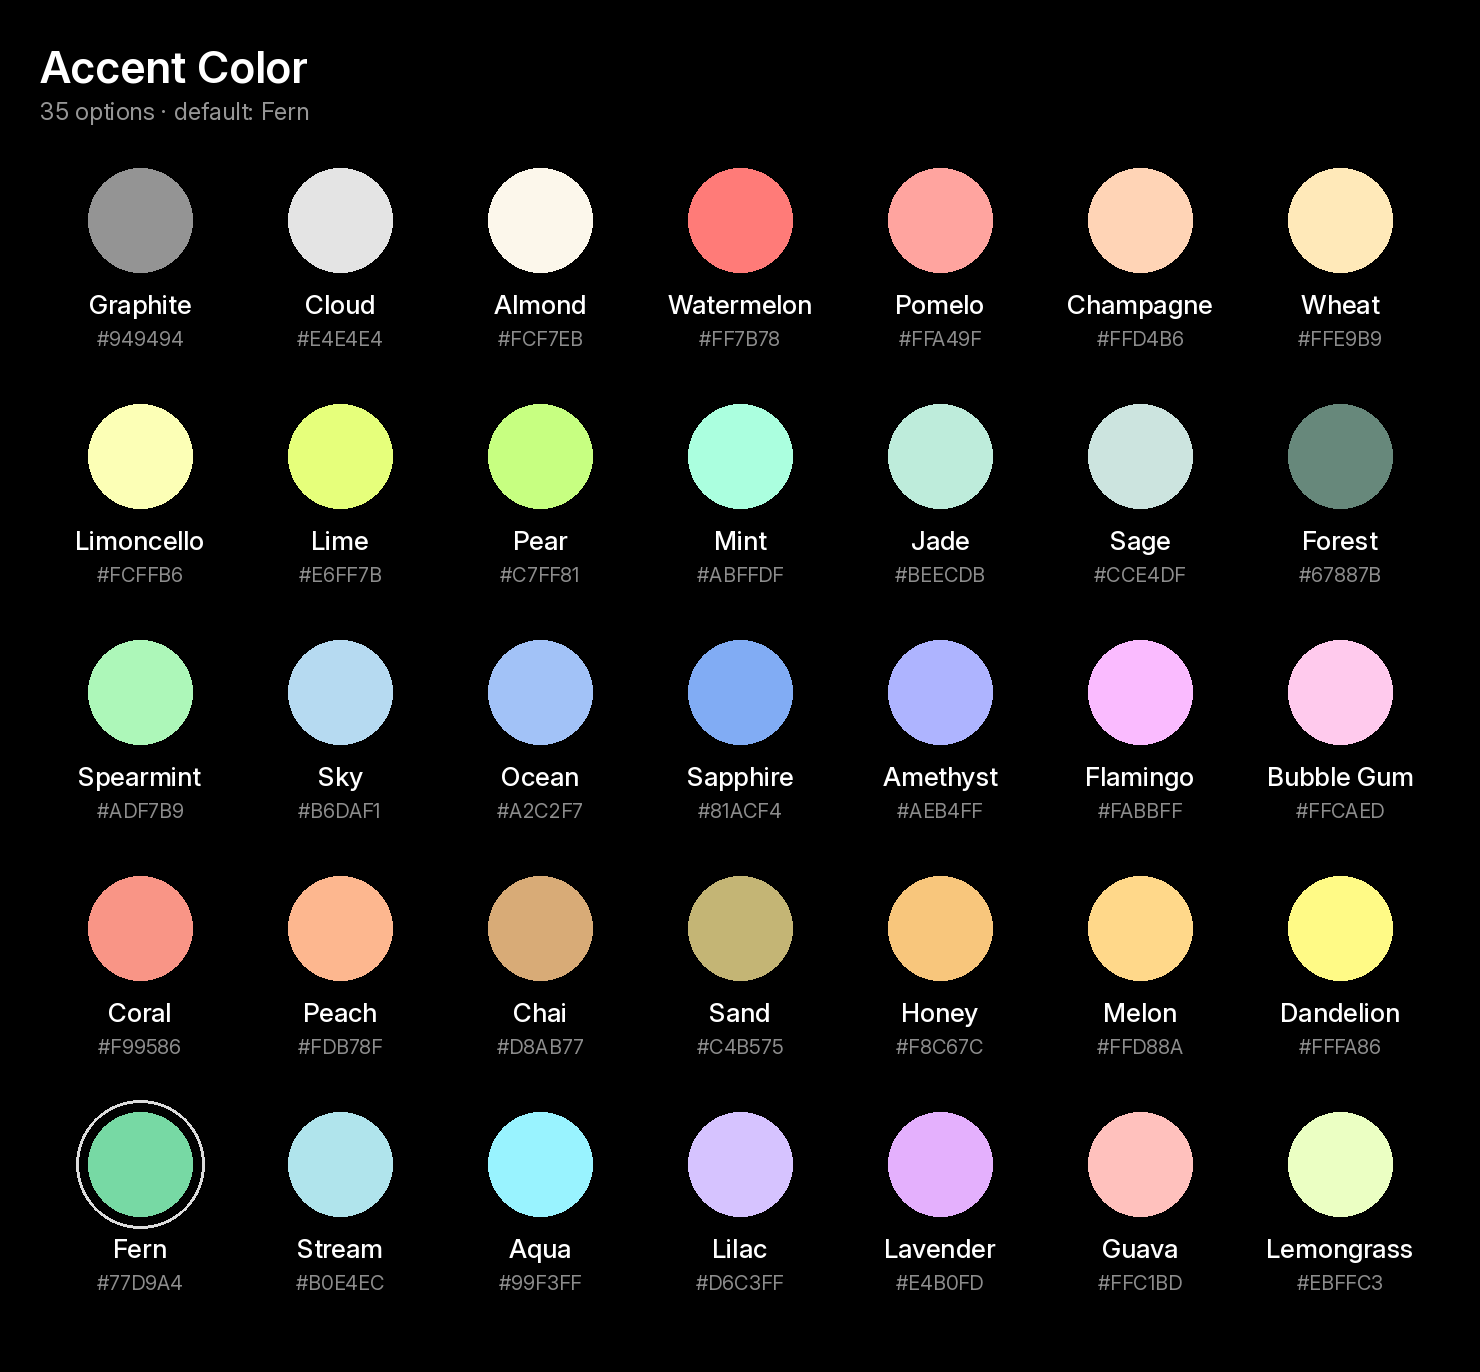
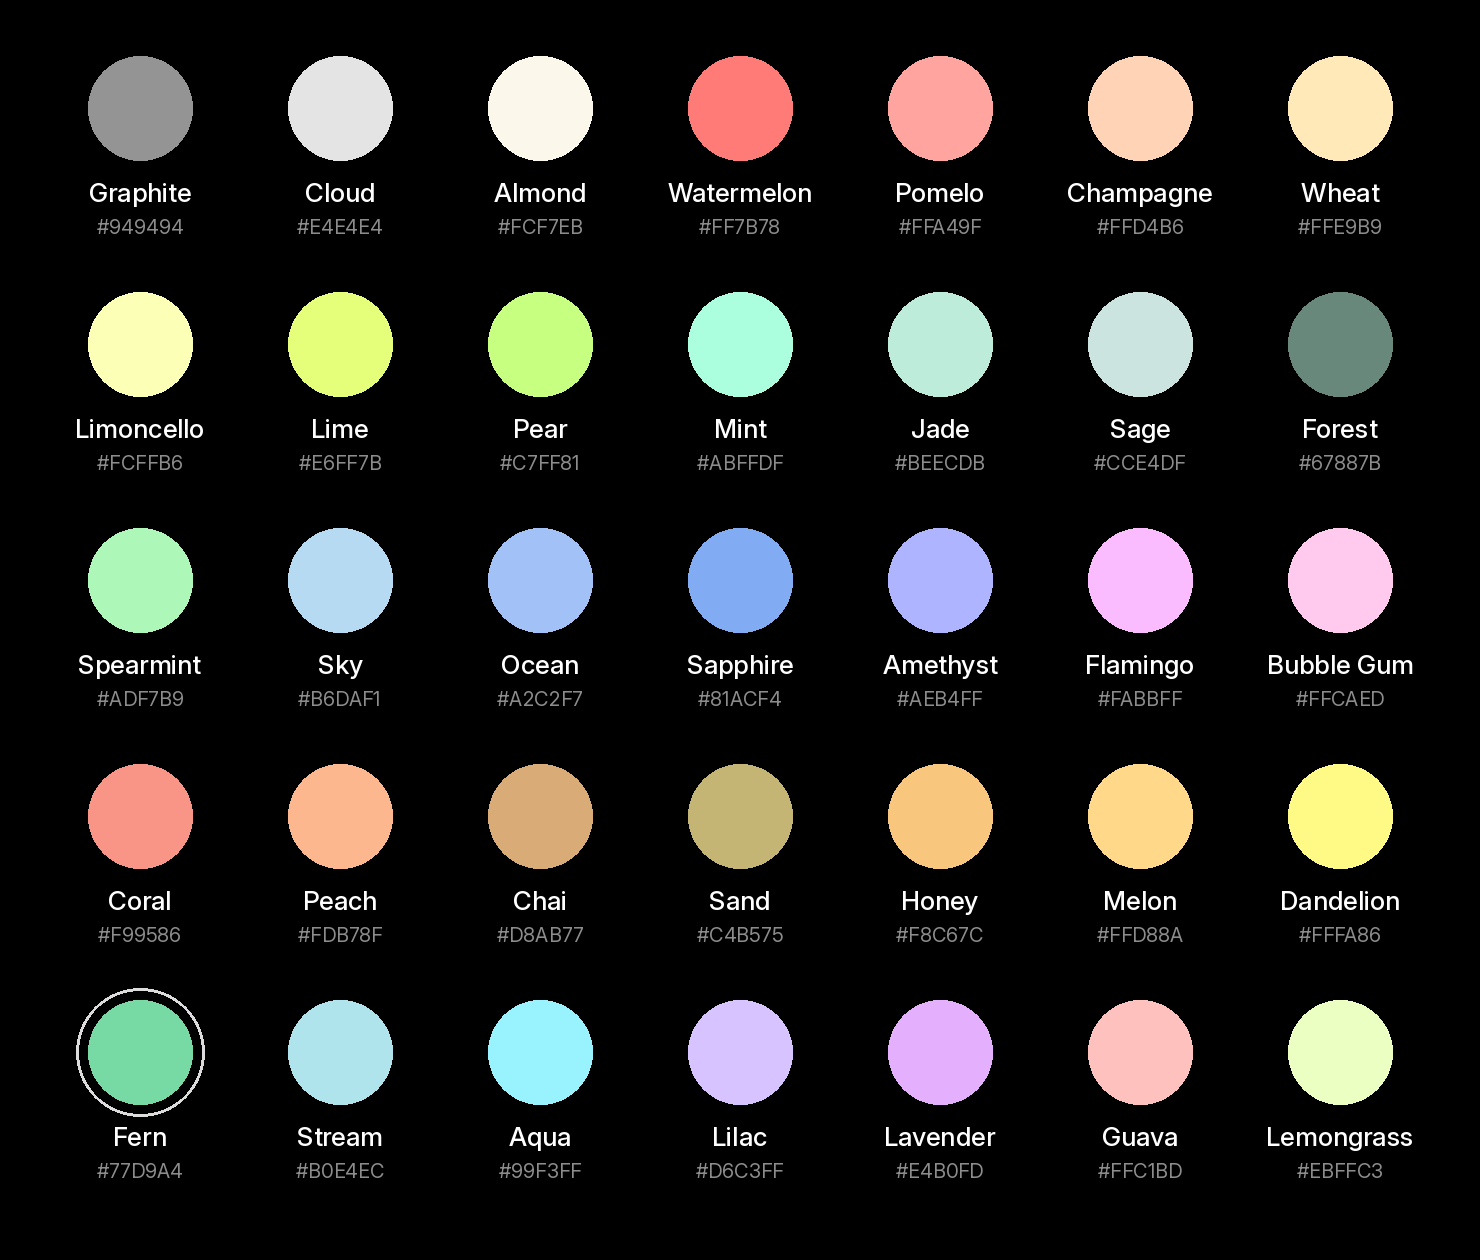
Accent color chart: drop header, add generator script
Regenerate docs/accent-colors.png without the title line (top margin now
matches the others) and commit tools/render_accent_colors.py, which reads
the options from watchface.xml/strings.xml so the chart can be rebuilt.

diff --git a/tools/render_accent_colors.py b/tools/render_accent_colors.py
@@ -1,0 +1,80 @@
+#!/usr/bin/env python3
+"""Render docs/accent-colors.png from the Accent Color options in the repo.
+
+Reads the themeColor ColorConfiguration from app/src/main/res/raw/watchface.xml
+and the option names from app/src/main/res/values/strings.xml, in editor order,
+and draws a 7x5 swatch grid on black (default option ringed). Requires Pillow.
+
+Usage (from the repo root):  python3 tools/render_accent_colors.py [font.ttf]
+"""
+import os
+import sys
+import xml.etree.ElementTree as ET
+
+from PIL import Image, ImageDraw, ImageFont
+
+ROOT = os.path.dirname(os.path.dirname(os.path.abspath(__file__)))
+WATCHFACE = os.path.join(ROOT, "app/src/main/res/raw/watchface.xml")
+STRINGS = os.path.join(ROOT, "app/src/main/res/values/strings.xml")
+OUT = os.path.join(ROOT, "docs/accent-colors.png")
+
+FONT_CANDIDATES = [
+    "/usr/share/fonts/truetype/sand-box/google/Inter/Inter-VariableFont_opsz,wght.ttf",
+    "/usr/share/fonts/truetype/inter/Inter-VariableFont_opsz,wght.ttf",
+    "/usr/share/fonts/truetype/dejavu/DejaVuSans.ttf",
+]
+
+
+def load_options():
+    root = ET.parse(WATCHFACE).getroot()
+    cc = root.find('UserConfigurations/ColorConfiguration[@id="themeColor"]')
+    default = cc.get("defaultValue")
+    names = {e.get("name"): e.text for e in ET.parse(STRINGS).getroot()}
+    return [
+        (names[o.get("displayName")],
+         "#" + o.get("colors").split()[0][-6:].upper(),
+         o.get("id") == default)
+        for o in cc.findall("ColorOption")
+    ]
+
+
+def font(path, size, weight):
+    f = ImageFont.truetype(path, size)
+    try:  # variable Inter: optical size + weight
+        f.set_variation_by_axes([14 if size < 20 else 24, weight])
+    except Exception:
+        pass
+    return f
+
+
+def main():
+    font_path = sys.argv[1] if len(sys.argv) > 1 else next(
+        p for p in FONT_CANDIDATES if os.path.exists(p))
+    opts = load_options()
+
+    k = 2  # render scale
+    cols = 7
+    rows = (len(opts) + cols - 1) // cols
+    cw, ch, pad = 100 * k, 118 * k, 20 * k
+    w, h = cols * cw + 2 * pad, rows * ch + 2 * pad
+    im = Image.new("RGB", (w, h), "black")
+    d = ImageDraw.Draw(im)
+    f_name, f_hex = font(font_path, 13 * k, 500), font(font_path, 10 * k, 400)
+
+    for i, (name, hx, is_default) in enumerate(opts):
+        cx = pad + (i % cols) * cw + cw // 2
+        cy = pad + (i // cols) * ch + 34 * k
+        r = 26 * k
+        if is_default:
+            g = r + 6 * k
+            d.ellipse((cx - g, cy - g, cx + g, cy + g), outline=(220, 220, 220), width=3)
+        d.ellipse((cx - r, cy - r, cx + r, cy + r), fill=hx)
+        d.text((cx, cy + r + 16 * k), name, font=f_name, fill="white", anchor="mm")
+        d.text((cx, cy + r + 33 * k), hx, font=f_hex, fill=(140, 140, 140), anchor="mm")
+
+    im.save(OUT, optimize=True)
+    print(f"wrote {OUT} ({w}x{h}, {len(opts)} colors)")
+
+
+if __name__ == "__main__":
+    main()

diff --git a/README.md b/README.md
@@ -12,6 +12,8 @@ The 35 colors from Google's own Pixel Watch faces are all available to choose as
 
 ![Accent Color options](docs/accent-colors.png)
 
+<sub>Chart generated from `watchface.xml` and `strings.xml` by `python3 tools/render_accent_colors.py`.</sub>
+
 ## Tick Modes
 There are 4 different options for the tick marks on the watch face.
 
